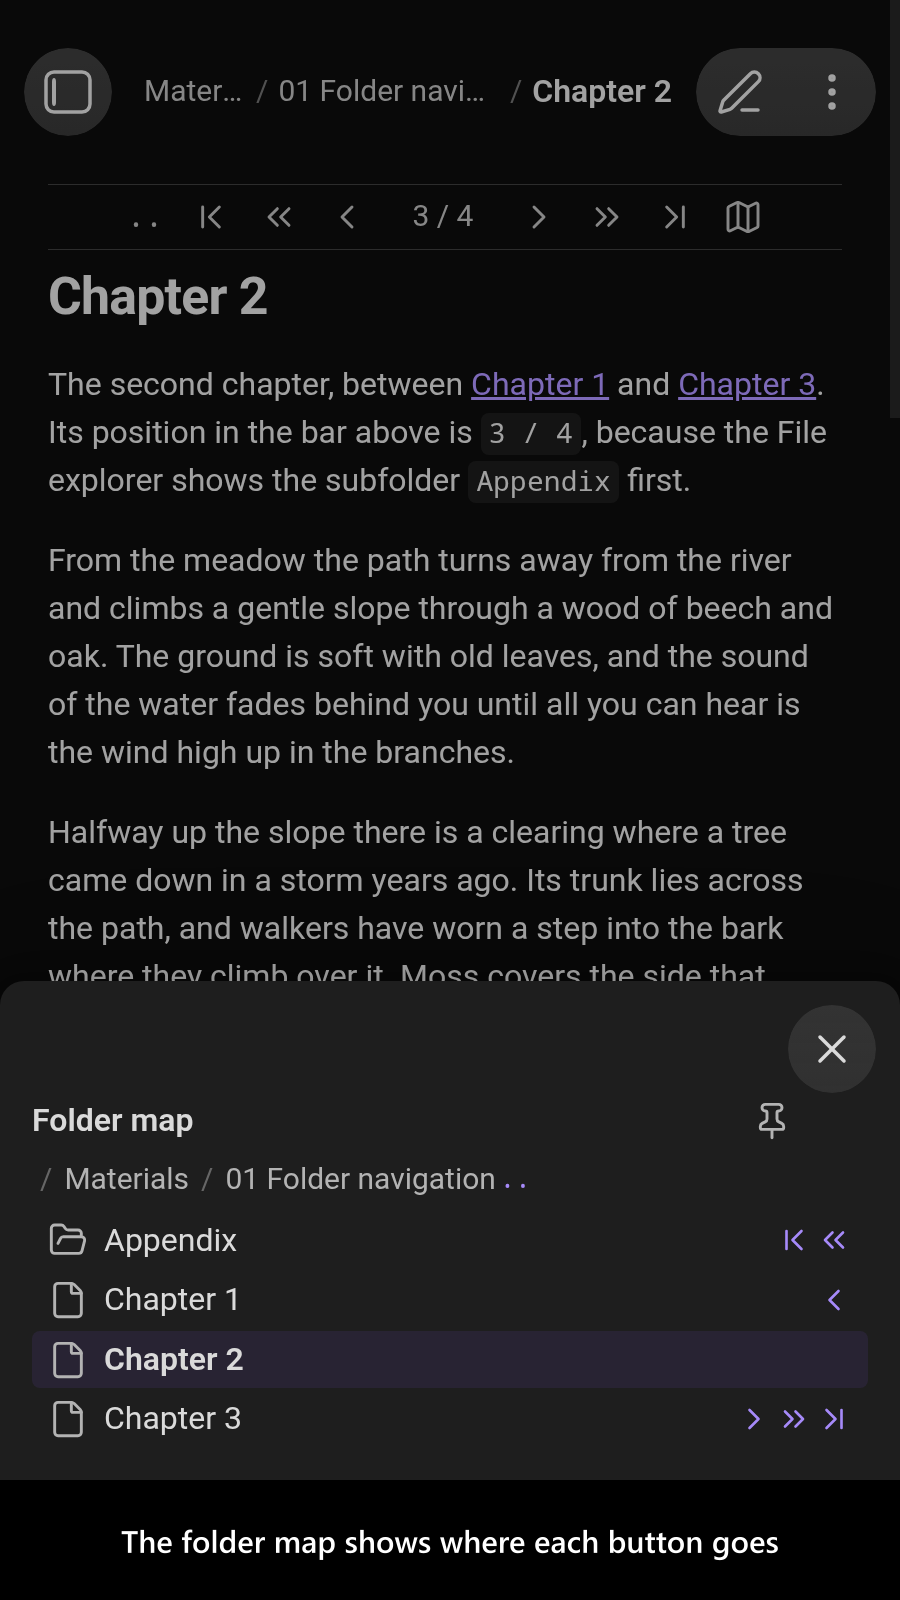
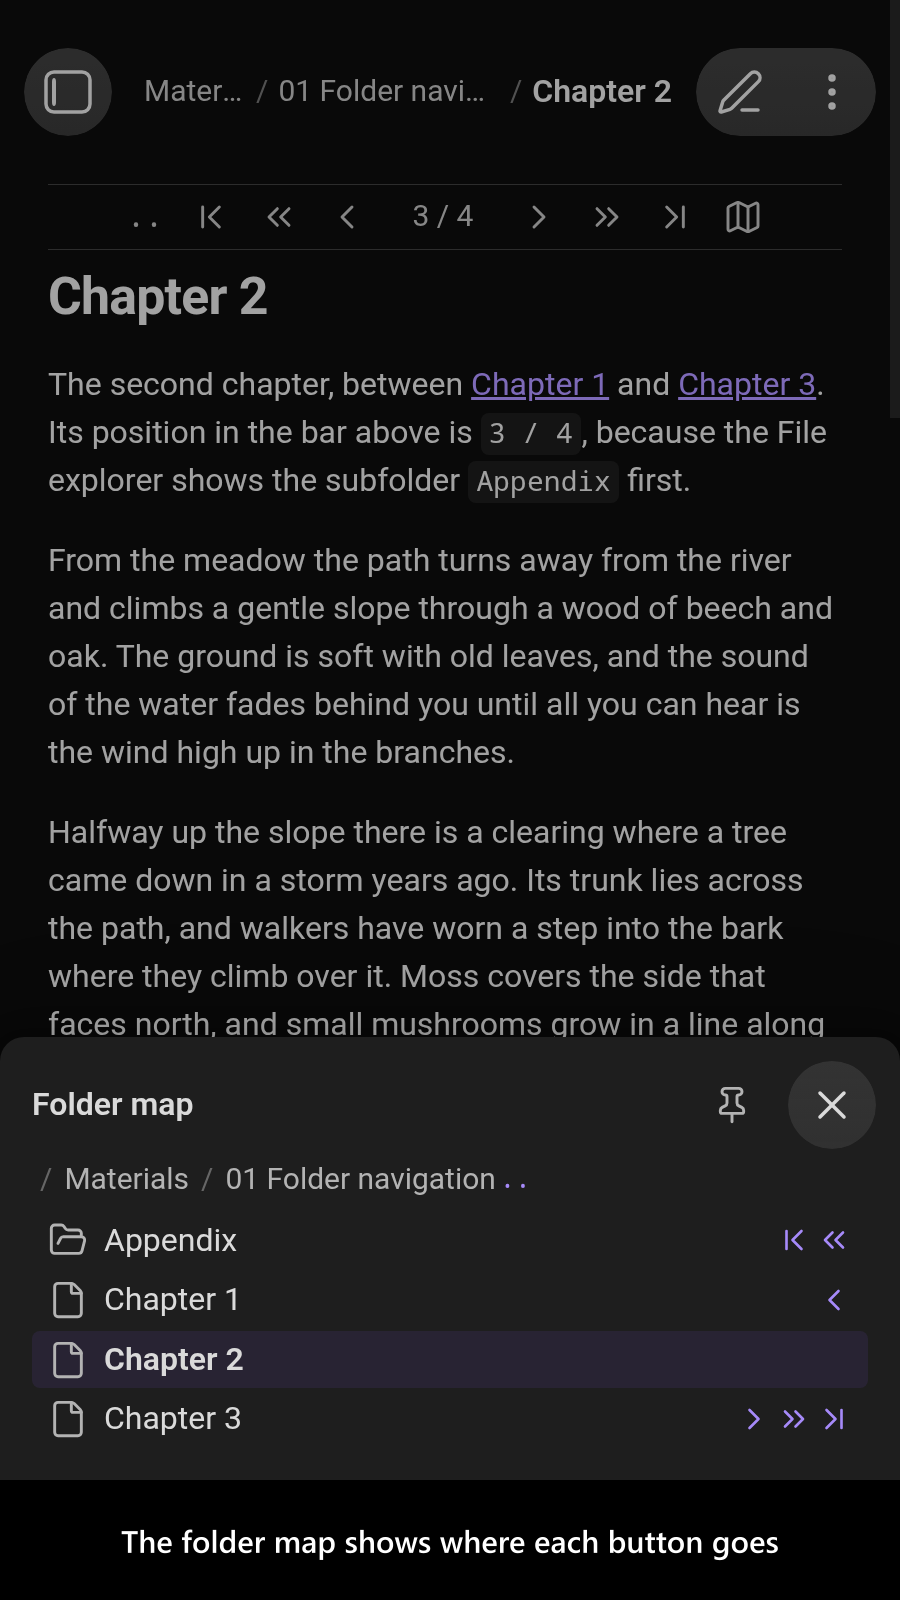
fix(folder-map-sheet): put the title and pin into the modal's own header
The bottom sheet showed the modal's close button alone on one row and
the map's title and pin on a second row below it. The title now goes
through setTitle and the pin into the modal's header element, sized to
the close button, so the sheet spends one row on its header. Mobile
screenshot 2 is re-captured.

diff --git a/src/folder-map-sheet.test.ts b/src/folder-map-sheet.test.ts
@@ -41,18 +41,23 @@ describe('FolderMapSheet', () => {
     expect(sheet.anchorEl).toBeNull();
   });
 
-  it('shows the map under the header once it opens', () => {
+  it('puts the title and the pin button into the header of the modal itself', () => {
+    const { sheet } = createFixture();
+    expect(sheet.titleEl.textContent).toBe(FOLDER_MAP_TITLE);
+    expect(sheet.headerEl.querySelector('.sibling-notes-folder-map-pin')).not.toBeNull();
+  });
+
+  it('shows the map alone in its content once it opens', () => {
     const { mapEl, sheet } = createFixture();
     expect(sheet.contentEl.childElementCount).toBe(0);
     sheet.open();
-    expect(sheet.contentEl.querySelector('.sibling-notes-folder-map-title')?.textContent).toBe(FOLDER_MAP_TITLE);
-    expect(sheet.contentEl.lastElementChild).toBe(mapEl);
+    expect([...sheet.contentEl.children]).toEqual([mapEl]);
   });
 
   it('pins on a click of the pin button', () => {
     const { onPin, sheet } = createFixture();
     sheet.open();
-    sheet.contentEl.querySelector('.sibling-notes-folder-map-pin')?.dispatchEvent(new MouseEvent('click', { cancelable: true }));
+    sheet.headerEl.querySelector('.sibling-notes-folder-map-pin')?.dispatchEvent(new MouseEvent('click', { cancelable: true }));
     expect(onPin).toHaveBeenCalledTimes(1);
   });
 

diff --git a/src/folder-map-sheet.ts b/src/folder-map-sheet.ts
@@ -3,7 +3,8 @@ import type { App } from 'obsidian';
 import { Modal } from 'obsidian';
 
 import {
-  createFolderMapHeader,
+  createFolderMapPinButton,
+  FOLDER_MAP_TITLE,
   FolderMapContainerCssClass
 } from './folder-map-popover.ts';
 
@@ -29,6 +30,9 @@ interface FolderMapSheetConstructorParams {
 /**
  * The folder map as a bottom sheet, on mobile: a modal restyled to rise from the bottom edge. Being a
  * modal, it closes on the back gesture, on a tap outside it and on its close button, as any other does.
+ *
+ * The map's title and pin button go into the modal's own header, beside its close button, so the sheet spends one
+ * row on its header rather than two.
  */
 export class FolderMapSheet extends Modal {
   /**
@@ -42,6 +46,8 @@ export class FolderMapSheet extends Modal {
     super(params.app);
     this.params = params;
     this.modalEl.addClass(FolderMapContainerCssClass.Sheet);
+    this.setTitle(FOLDER_MAP_TITLE);
+    createFolderMapPinButton(this.headerEl, params.onPin);
   }
 
   public override onClose(): void {
@@ -51,7 +57,6 @@ export class FolderMapSheet extends Modal {
 
   public override onOpen(): void {
     super.onOpen();
-    createFolderMapHeader(this.contentEl, this.params.onPin);
     this.contentEl.append(this.params.mapEl);
   }
 }

diff --git a/src/folder-map-popover.ts b/src/folder-map-popover.ts
@@ -148,8 +148,20 @@ export class FolderMapPopover {
 export function createFolderMapHeader(parentEl: HTMLElement, onPin: () => void): HTMLElement {
   const headerEl = parentEl.createDiv({ cls: FolderMapContainerCssClass.Header });
   headerEl.createDiv({ cls: FolderMapContainerCssClass.Title, text: FOLDER_MAP_TITLE });
+  createFolderMapPinButton(headerEl, onPin);
+  return headerEl;
+}
+
+/**
+ * Adds the map's pin button.
+ *
+ * @param parentEl - The element to add it to.
+ * @param onPin - Called when the pin button is clicked.
+ * @returns The button.
+ */
+export function createFolderMapPinButton(parentEl: HTMLElement, onPin: () => void): HTMLButtonElement {
   const pinLabel = 'Pin to the side panel';
-  const pinButton = headerEl.createEl('button', {
+  const pinButton = parentEl.createEl('button', {
     attr: { 'aria-label': pinLabel, 'type': 'button' },
     cls: ['clickable-icon', FolderMapContainerCssClass.PinButton]
   });
@@ -159,7 +171,7 @@ export function createFolderMapHeader(parentEl: HTMLElement, onPin: () => void):
     clickEvent.preventDefault();
     onPin();
   });
-  return headerEl;
+  return pinButton;
 }
 
 /**

diff --git a/src/styles/main.css b/src/styles/main.css
@@ -239,11 +239,29 @@ a.sibling-notes-folder-map-breadcrumb:hover {
 
 .sibling-notes-folder-map-sheet .modal-content {
   overflow-y: auto;
+  padding-top: 0;
 }
 
-/* Leaves room for the modal's own close button. */
-.sibling-notes-folder-map-sheet .sibling-notes-folder-map-header {
-  padding-inline-end: var(--size-4-8);
+/*
+ * The title and the pin share the modal's own header row with its close button, which is absolutely placed
+ * `--size-4-3` from the top and `--size-4-4` from the end, so the row is as tall as the button and ends before it.
+ */
+.sibling-notes-folder-map-sheet .modal-header {
+  display: flex;
+  align-items: center;
+  gap: var(--size-4-2);
+  box-sizing: content-box;
+  width: auto;
+  height: var(--touch-size-m);
+  margin-bottom: 0;
+  padding: var(--size-4-3) calc(var(--size-4-4) + var(--touch-size-m) + var(--size-4-2)) 0 var(--size-4-4);
+}
+
+.sibling-notes-folder-map-sheet .modal-title {
+  flex: 1;
+  max-width: none;
+  margin-inline: 0;
+  text-align: start;
 }
 
 /* Print and PDF export show the note alone. */

diff --git a/AGENTS.md b/AGENTS.md
@@ -68,6 +68,7 @@ Checked against the `obsidian-typings` branch `release/obsidian-public/1.14.4`. 
   - In the editor the bars go right before and after `.cm-contentContainer` (`cm.contentDOM.parentElement`). `updateBottomPadding` puts the scroll-past-end space on `cm.contentDOM`'s bottom padding, above anything after the content, so the component patches it on the edit view's prototype and moves that space below the bottom bar through `--sibling-notes-scroll-past-end`.
   - In Reading view the top bar is appended to the header and the bottom bar prepended to the footer, then `renderer.updateHeader()` / `updateFooter()` re-measure the section. `obsidian-typings` declares those four renderer members since `obsidian-public-1.14.4` 1.13.0.
   - `FileExplorerView.sort()` runs after every sort-order change and every `requestSort`, so the component patches it to refresh the bars.
+- **The bottom sheet's header**, checked in the 1.14.4 bundle and live on Android: `Modal` builds `modalEl` > close button (`.modal-header-button`, absolutely placed `--size-4-3` from the top and `--size-4-4` from the end, `--touch-size-m` square on a phone), then `headerEl` (`.modal-header`) > `titleEl`, then `contentEl`. On a phone the header keeps its padding even with an empty title, so a header built in `contentEl` costs a second row. The sheet therefore sets the title with `setTitle` and puts the pin into `headerEl` (declared by `obsidian-typings`), and its CSS sizes that row to the close button and ends it before the button.
 - **The virtual folder note's header:** `WorkspaceLeaf.updateHeader()` updates the tab title but not the view header's `ItemView.titleEl`, which is written once when the view opens, before it has a state. So the view sets `titleEl` itself on every refresh.
 - **Folder-note conventions**, read from each enabled plugin's `app.plugins.getPlugin(id).settings` on every lookup:
   - `folder-notes`: through `resolveFolderNoteConfig` in `@mnaoumov/obsidian-lib/folder-note` (`folderNoteName` with `{{folder_name}}`, `storageLocation`, `folderNoteType`, `supportedFileTypes`).
